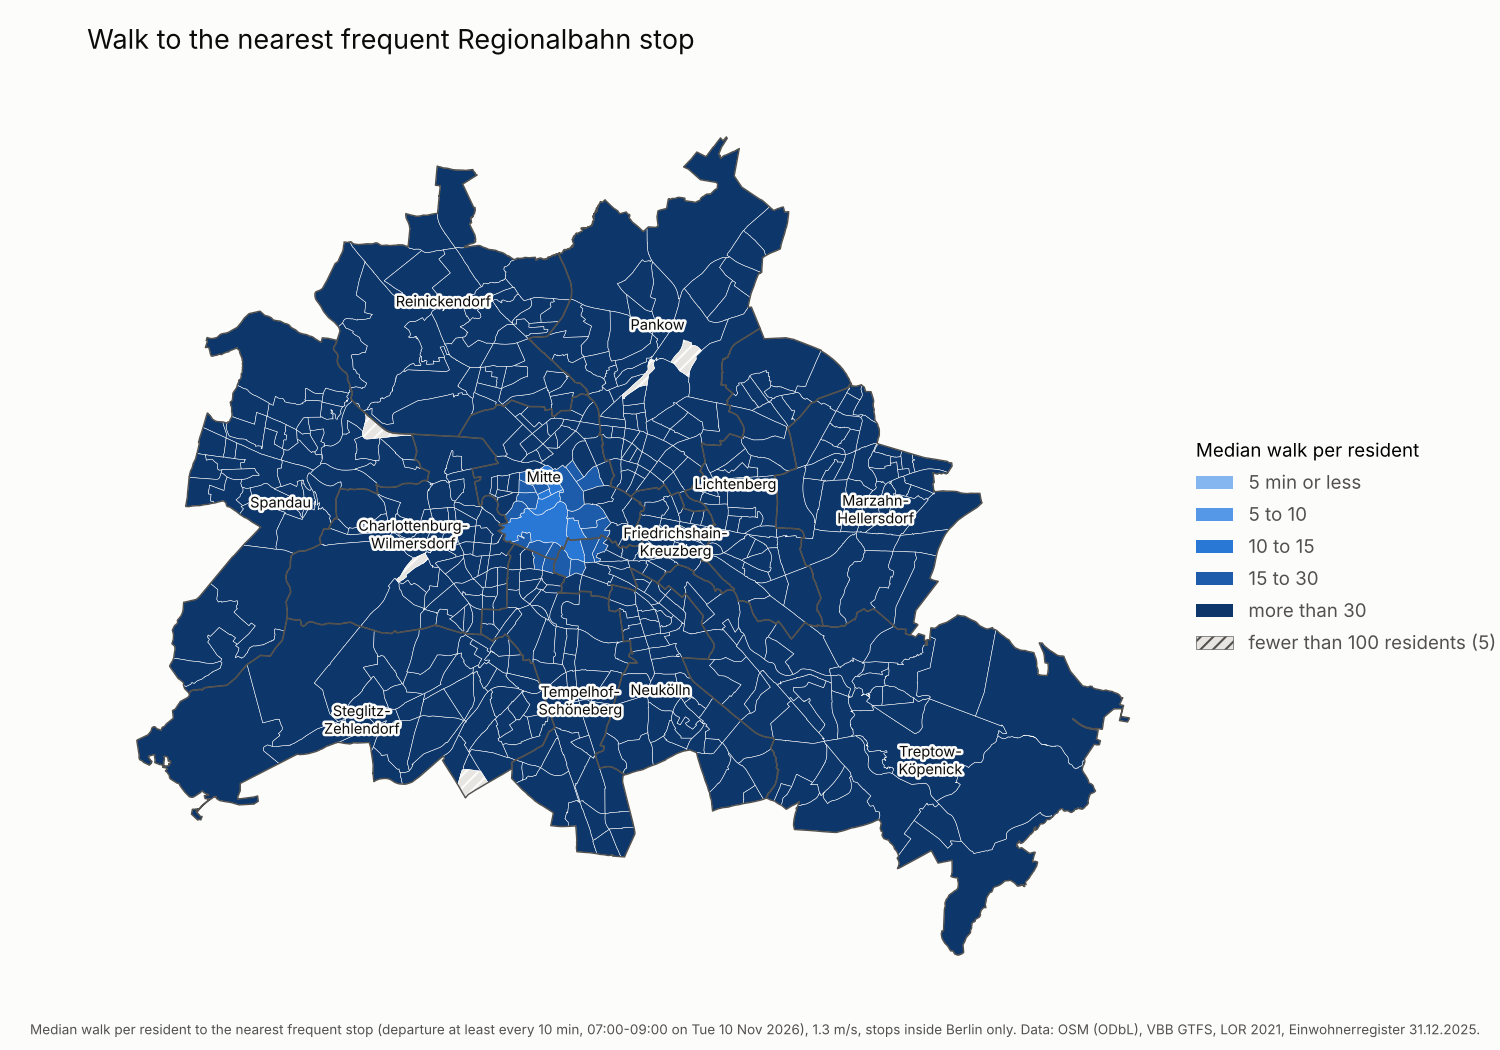
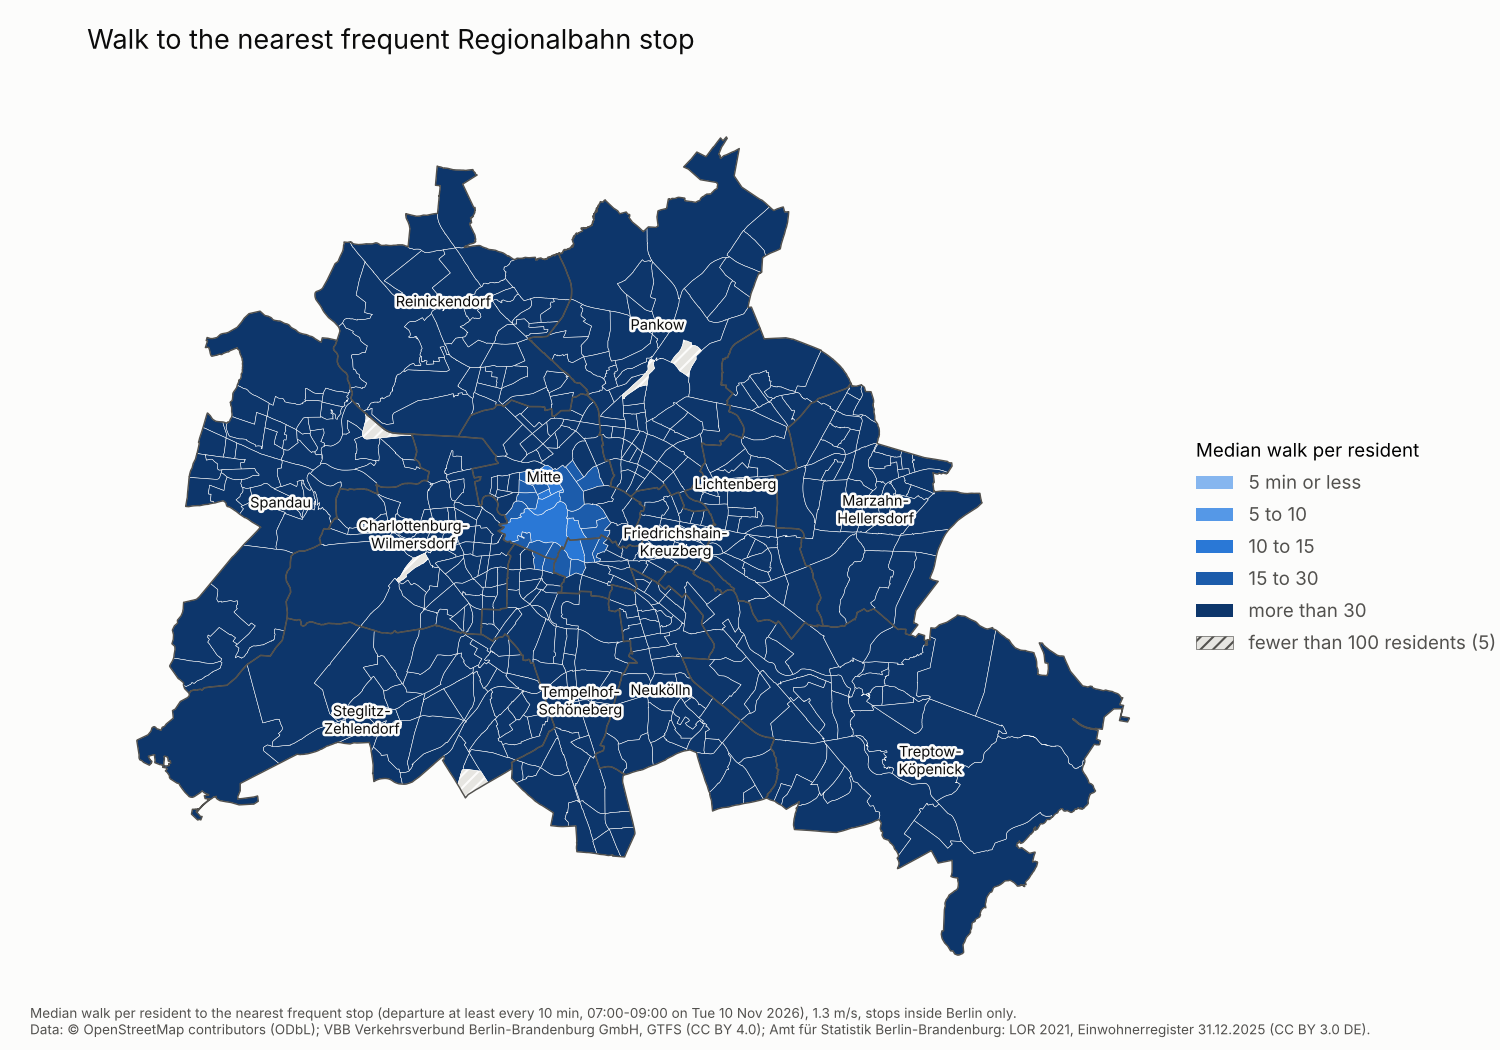
Name every data source and its licence on the maps
Shared attribution line in berlin_access/credits.py; it now credits VBB
and the Amt für Statistik Berlin-Brandenburg as CC BY requires, on its own
line so it is not cut off.

Changed region(s): [[0.0307, 0.9448, 0.9813, 1.0]]

diff --git a/scripts/make_maps.py b/scripts/make_maps.py
@@ -23,6 +23,7 @@ from matplotlib.patches import Patch  # noqa: E402
 import _bootstrap  # noqa: F401, E402
 
 from berlin_access.config import load_config  # noqa: E402
+from berlin_access.credits import credits  # noqa: E402
 from berlin_access.pipeline import load_lor, mode_slug, report_modes  # noqa: E402
 
 SURFACE = "#fcfcfb"
@@ -158,13 +159,13 @@ def main(cfg) -> None:
     v = cfg["walk_speed_main_mps"]
     modes = report_modes(cfg)
     limit = "stops inside Berlin only" if cfg["stop_buffer_m"] == 0 else f"stops up to {cfg['stop_buffer_m']} m outside Berlin"
-    data = "Data: OSM (ODbL), VBB GTFS, LOR 2021, Einwohnerregister 31.12.2025."
+    data = credits("osm", "vbb", "afs")
 
     lor = load_lor(cfg.path("lor"), cfg["crs"])
     districts = lor.dissolve("district").reset_index()[["district", "geometry"]]
 
     plr, n_low, _ = plr_classes(out, lor, "walk_time_by_planungsraum.csv", "residents", v, modes)
-    source = f"Median walk per resident to the nearest stop, LOR Planungsräume, {v} m/s, {limit}. {data}"
+    source = f"Median walk per resident to the nearest stop, LOR Planungsräume, {v} m/s, {limit}.\n{data}"
     for m in modes:
         single_map(plr, districts, f"cls_{m}", f"Walk to the nearest {m} stop", n_low, source,
                    maps_dir / f"plr_median_walk_{mode_slug(m)}.png")
@@ -179,7 +180,7 @@ def main(cfg) -> None:
             plr_f, n_low_f, _ = plr_classes(out, lor, csv, "residents", v, modes)
             day = pd.Timestamp(str(fq["date"])).strftime("%a %d %b %Y")
             rule = f"departure at least every {fq['max_headway_min']} min, {fq['window'][0]}-{fq['window'][1]} on {day}"
-            src_f = f"Median walk per resident to the nearest frequent stop ({rule}), {v} m/s, {limit}. {data}"
+            src_f = f"Median walk per resident to the nearest frequent stop ({rule}), {v} m/s, {limit}.\n{data}"
             for m in modes:
                 single_map(plr_f, districts, f"cls_{m}", f"Walk to the nearest frequent {m} stop", n_low_f, src_f,
                            maps_dir / f"plr_{tag}_median_walk_{mode_slug(m)}.png")
@@ -188,7 +189,7 @@ def main(cfg) -> None:
 
     older_map(out, lor, districts, "S- or U-Bahn", n_low, maps_dir / "plr_older_residents_S-or-U-Bahn.png",
               f"Residents 65+ per Planungsraum (Einwohnerregister 31.12.2025), spread within the Planungsraum like all "
-              f"residents. Walking speed 1.0 m/s, {limit}. {data}")
+              f"residents. Walking speed 1.0 m/s, {limit}.\n{data}")
     print(f"maps written to {maps_dir}")
 
 

diff --git a/scripts/run_segments.py b/scripts/run_segments.py
@@ -37,6 +37,7 @@ import _bootstrap  # noqa: F401, E402
 
 from berlin_access import segments as sg  # noqa: E402
 from berlin_access.config import load_config  # noqa: E402
+from berlin_access.credits import credits  # noqa: E402
 from berlin_access.reference_streets import ADDED_AFTER_RESULTS, REFERENCE_STREETS, SEEN  # noqa: E402
 from berlin_access.pipeline import load_lor  # noqa: E402
 
@@ -85,9 +86,9 @@ def nach_map(seg, ctx, outline, r, district, path, figsize=(12, 8.5), width_scal
     ax.legend(handles=handles, loc="center left", bbox_to_anchor=(1.0, 0.5), frameon=False, fontsize=9,
               labelcolor=TEXT_2, title="Segments by NACH quintile", title_fontsize=9, alignment="left")
     fig.text(0.01, 0.01, "Angular segment analysis with cityseer on the cleaned OSM street network (2 km buffer). "
-             "Coloured: residential streets (homes within 50 m). Data: OpenStreetMap (ODbL), "
-             "Einwohnerregister 31.12.2025.", fontsize=7, color=TEXT_2)
-    fig.tight_layout(rect=(0, 0.02, 1, 1))
+             "Coloured: residential streets (homes within 50 m).\n" + credits("osm", "afs"),
+             fontsize=7, color=TEXT_2)
+    fig.tight_layout(rect=(0, 0.035, 1, 1))
     fig.savefig(path, facecolor=SURFACE)
     plt.close(fig)
 

diff --git a/scripts/run_phase3.py b/scripts/run_phase3.py
@@ -26,6 +26,7 @@ from scipy.stats import spearmanr  # noqa: E402
 import _bootstrap  # noqa: F401, E402
 
 from berlin_access.config import load_config  # noqa: E402
+from berlin_access.credits import credits  # noqa: E402
 from berlin_access.pipeline import load_lor, weighted_quantiles  # noqa: E402
 
 PILOT = "Friedrichshain-Kreuzberg"
@@ -163,9 +164,9 @@ def main():
     fig.text(0.01, 0.015,
              "Thirds over all Planungsräume of the resident-weighted median walk to the nearest S- or U-Bahn station "
              f"({v} m/s) and of the median NAIN at 2000 m of residents' nearest street. 'Concordant' = close & integrated "
-             "or far & segregated. Data: OSM (ODbL), VBB GTFS, LOR 2021, Einwohnerregister 31.12.2025.",
+             "or far & segregated.\n" + credits("osm", "vbb", "afs"),
              fontsize=7, color=TEXT_2, wrap=True)
-    fig.tight_layout(rect=(0, 0.04, 1, 1))
+    fig.tight_layout(rect=(0, 0.05, 1, 1))
     fig.savefig(out / "maps" / "phase3_divergence.png", facecolor=SURFACE, bbox_inches="tight")
     plt.close(fig)
 

diff --git a/src/berlin_access/credits.py b/src/berlin_access/credits.py
@@ -1,0 +1,12 @@
+"""Attribution lines for maps, as the data licences require (docs/data_licences.md)."""
+
+SOURCES = {
+    "osm": "© OpenStreetMap contributors (ODbL)",
+    "vbb": "VBB Verkehrsverbund Berlin-Brandenburg GmbH, GTFS (CC BY 4.0)",
+    "afs": "Amt für Statistik Berlin-Brandenburg: LOR 2021, Einwohnerregister 31.12.2025 (CC BY 3.0 DE)",
+}
+
+
+def credits(*keys: str) -> str:
+    """'Data: ...' line naming the given sources, e.g. credits("osm", "afs")."""
+    return "Data: " + "; ".join(SOURCES[k] for k in keys) + "."
